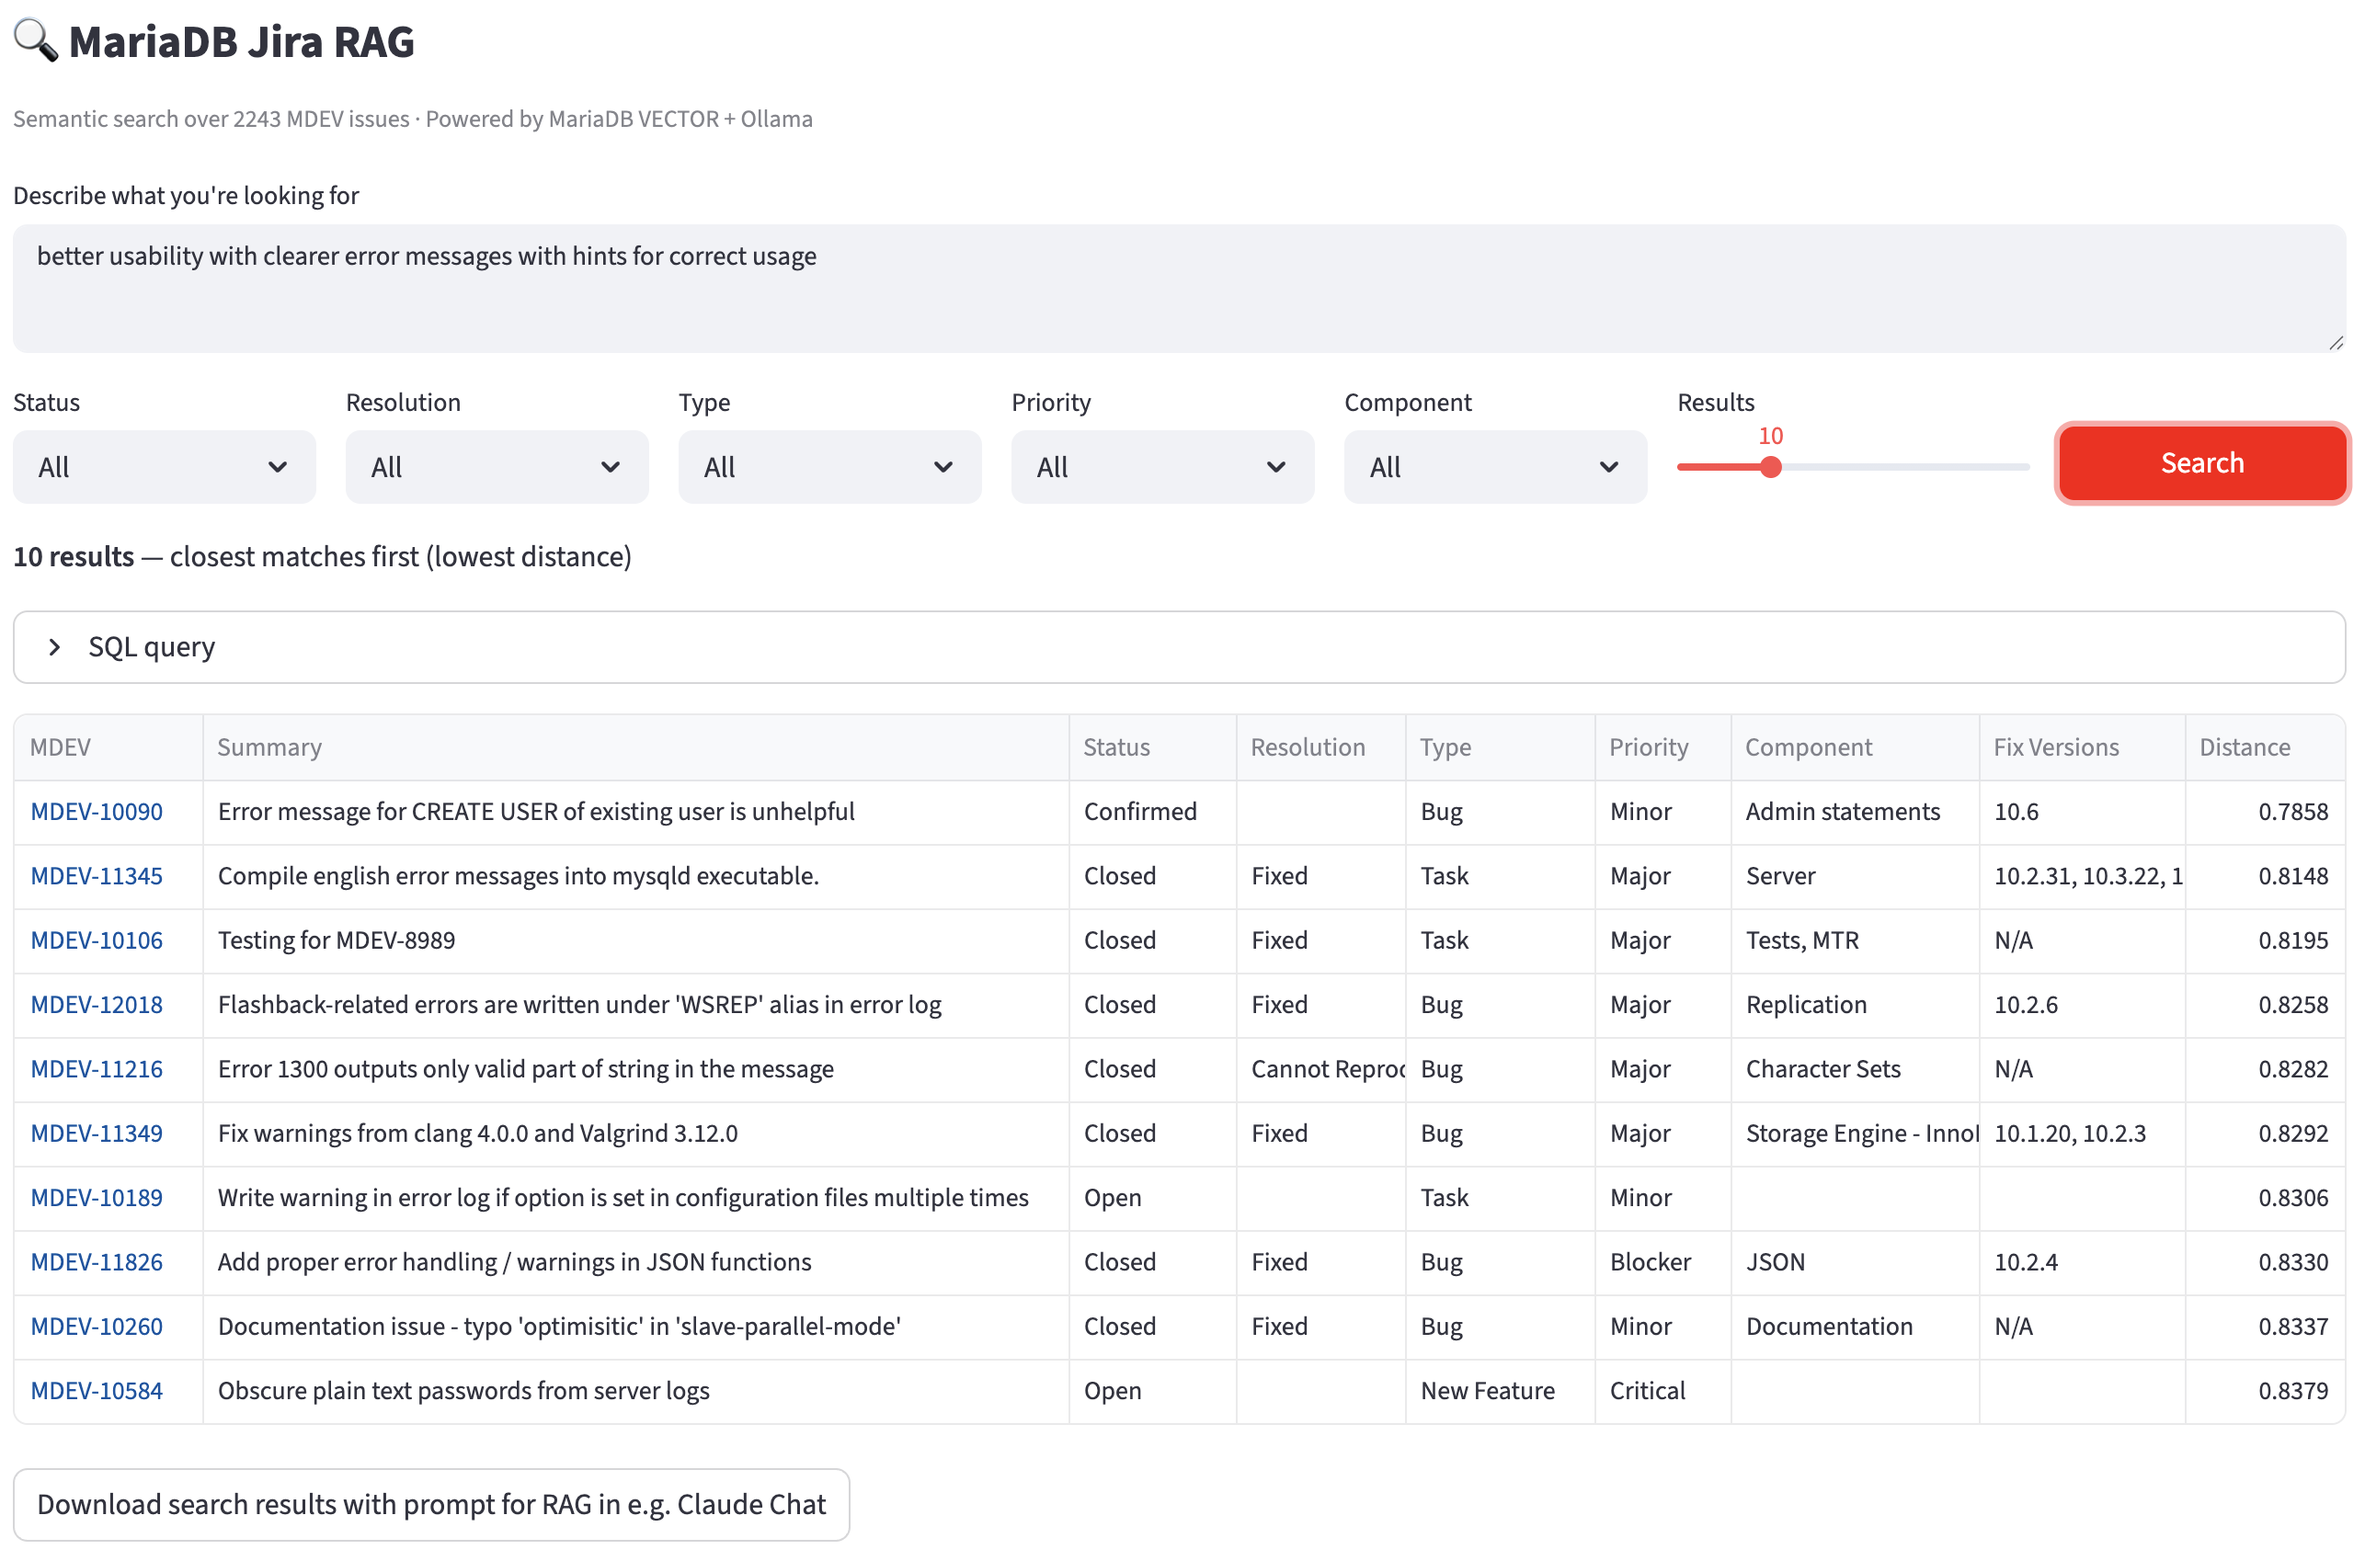
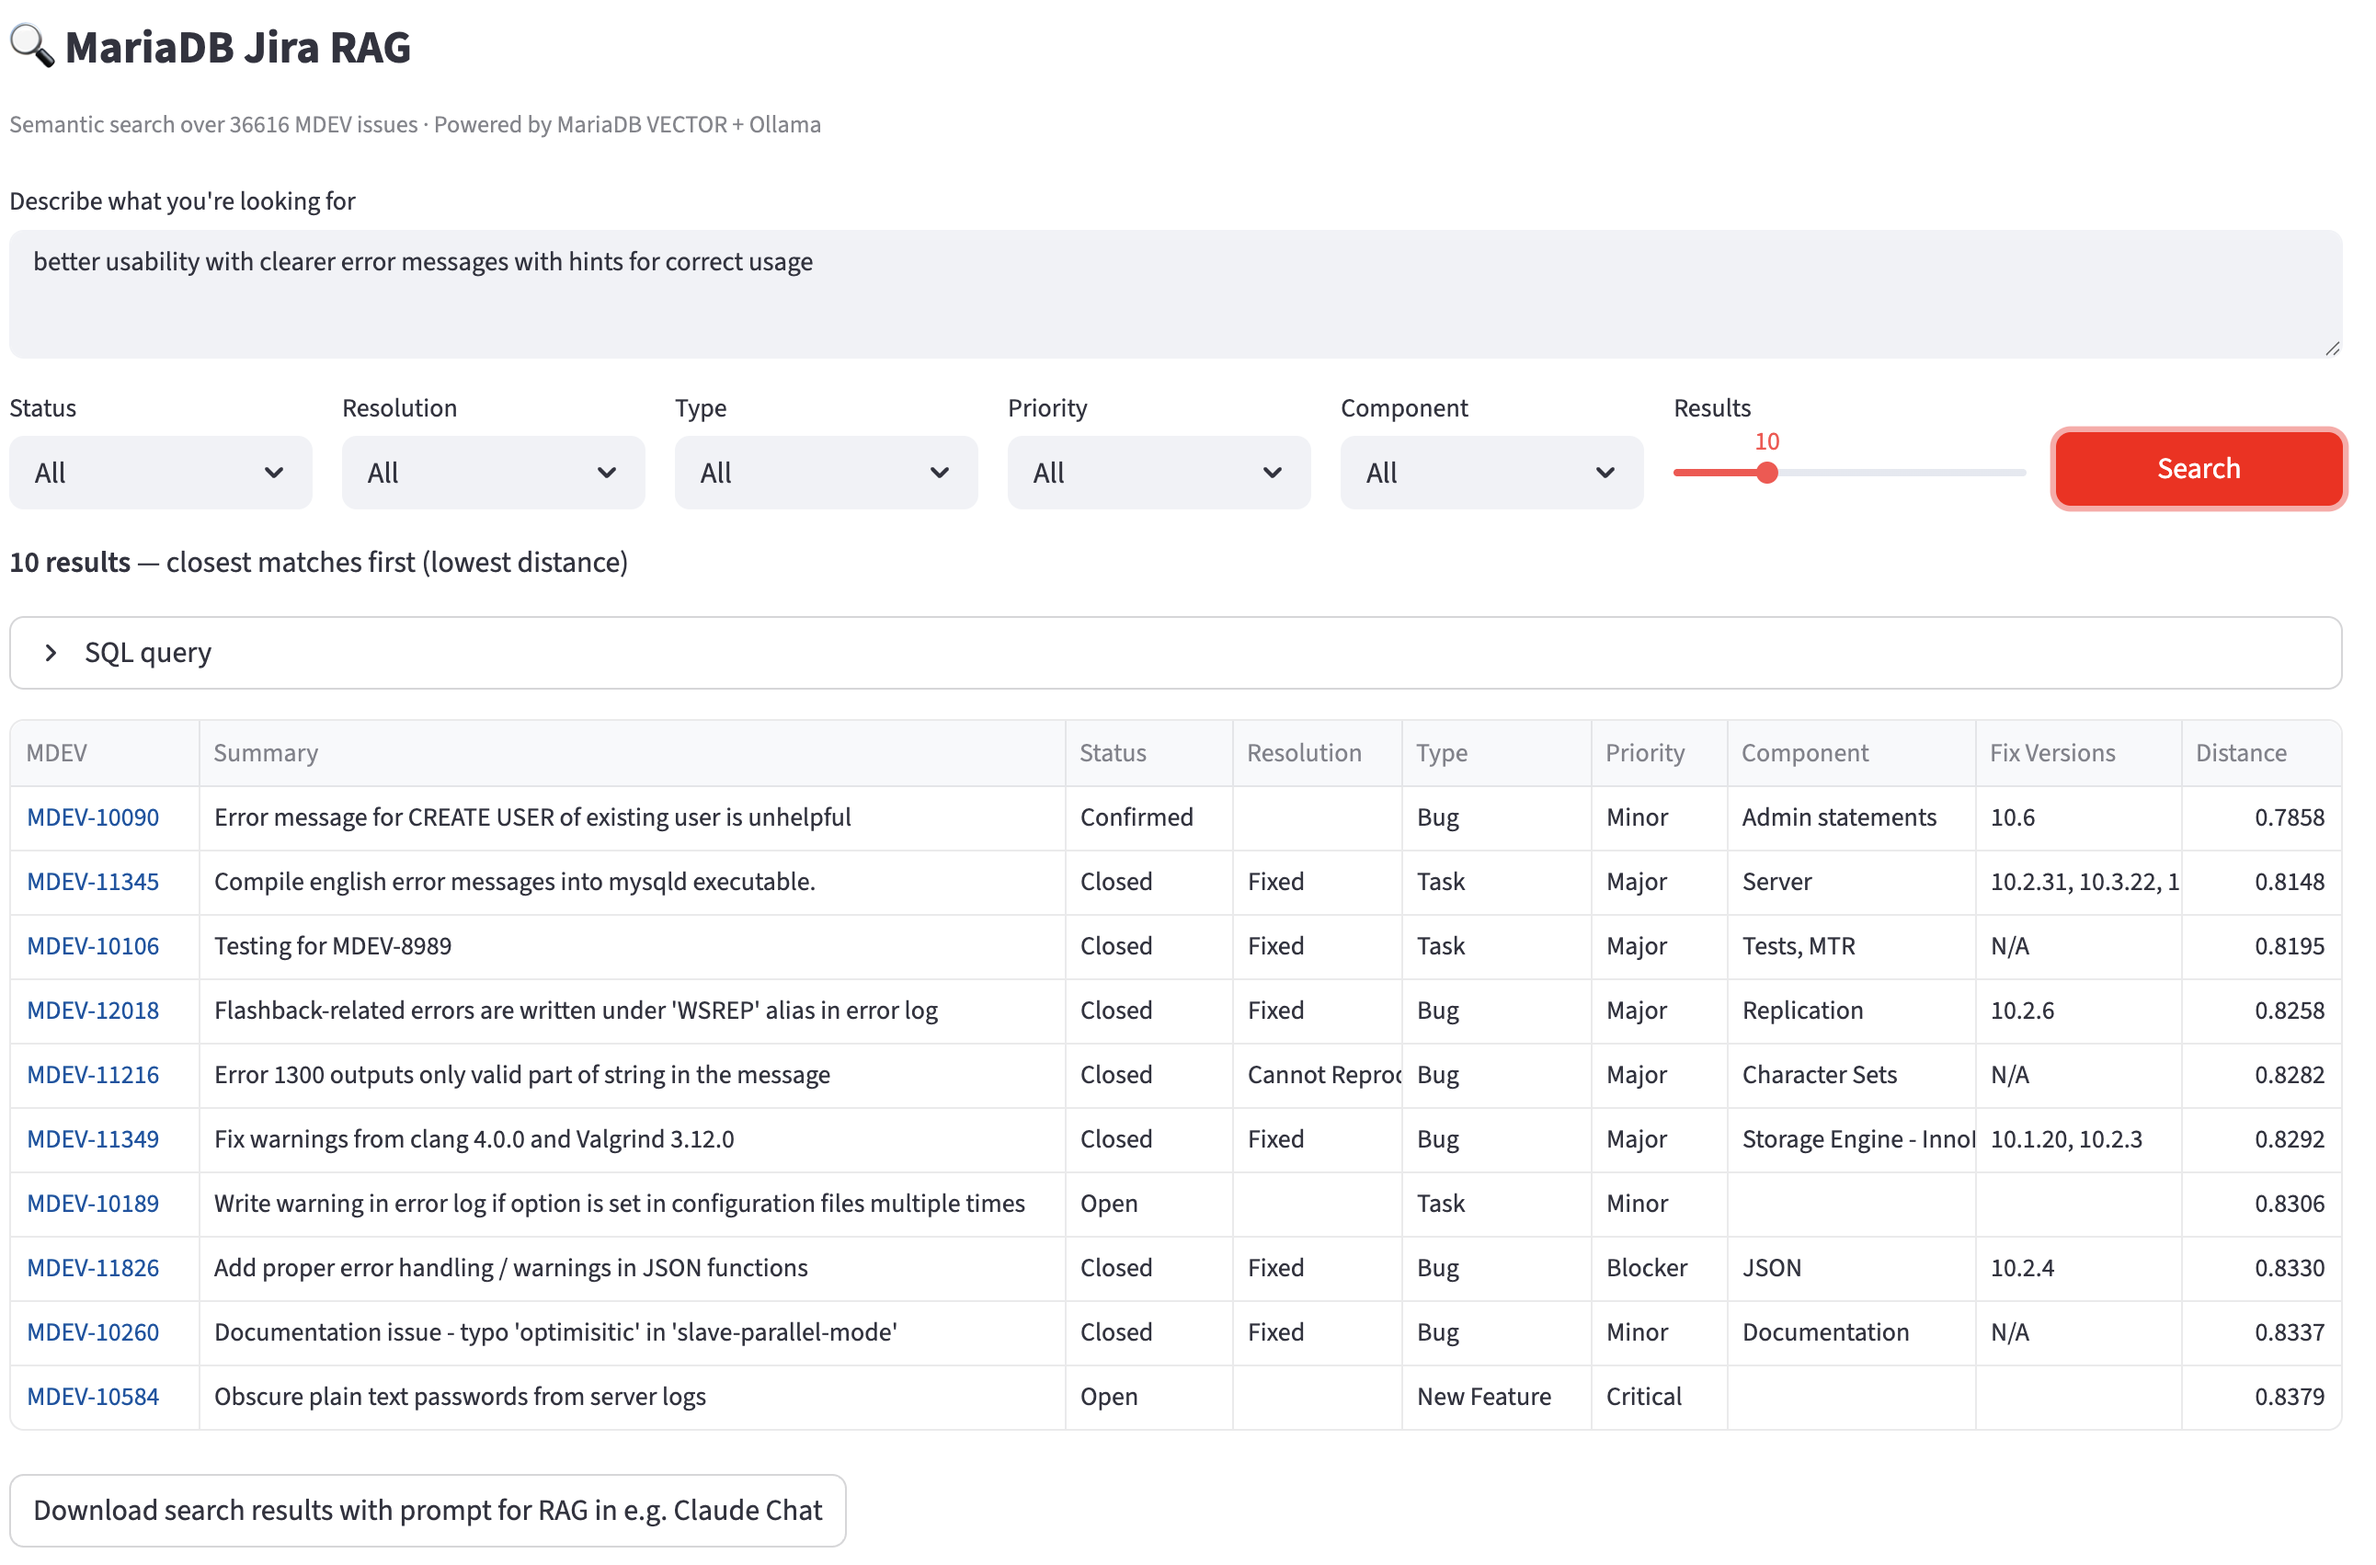
update mdev count

diff --git a/search_app.py b/search_app.py
@@ -15,7 +15,7 @@ import json
 import mariadb
 import ollama
 import re
-from datetime import datetime, timezone
+from datetime import datetime, timedelta, timezone
 from pathlib import Path
 
 import streamlit as st
@@ -50,6 +50,8 @@ Your job:
 @st.cache_resource
 def get_connection():
     conn = mariadb.connect(**DB_CONFIG)
+    # Default autocommit=False can pin a repeatable-read snapshot; loader commits stay invisible.
+    conn.autocommit = True
     ensure_priority_column(conn)
     return conn
 
@@ -296,11 +298,18 @@ st.markdown(
     unsafe_allow_html=True,
 )
 
-st.title("🔍 MariaDB Jira RAG")
-st.caption(
-    f"Semantic search over {get_issue_count()} MDEV issues · "
-    f"Powered by MariaDB VECTOR + Ollama"
-)
+
+@st.fragment(run_every=timedelta(seconds=10))
+def header_with_live_issue_count():
+    """Re-runs periodically so the issue count updates while load_mariadb adds rows."""
+    st.title("🔍 MariaDB Jira RAG")
+    st.caption(
+        f"Semantic search over {get_issue_count()} MDEV issues · "
+        f"Powered by MariaDB VECTOR + Ollama"
+    )
+
+
+header_with_live_issue_count()
 
 query = st.text_area(
     "Describe what you're looking for",
